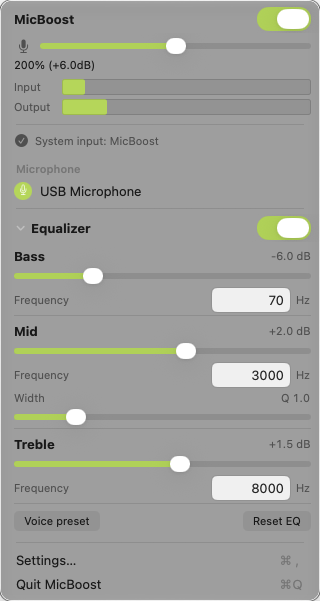
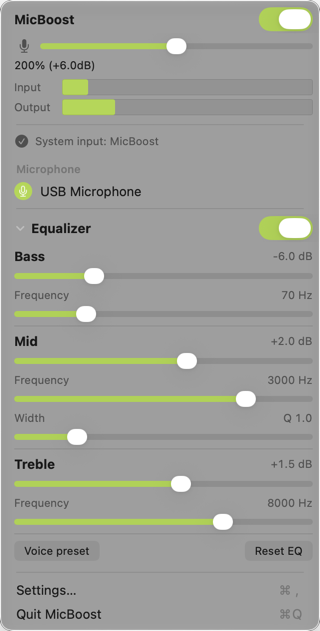
Document the EQ frequency grid and regenerate the panel screenshots

diff --git a/Sources/render-screenshots/main.swift b/Sources/render-screenshots/main.swift
@@ -112,9 +112,8 @@ enum CaptureError: Error { case noMenuWindow, emptyCapture }
         configuration.width = Int(target.frame.width * scale)
         configuration.height = Int(target.frame.height * scale)
         configuration.showsCursor = false
-        // The menu hands the keyboard to its first text field, which would be captured with a
-        // focus ring and selected text; no field is left as first responder (docs/ui.md
-        // "Renderização e verificação").
+        // A control with the keyboard focus would be captured with a focus ring; the menu is
+        // left without a first responder (docs/ui.md "Renderização e verificação").
         popup.makeFirstResponder(nil)
         window.makeFirstResponder(nil)
         let image = try await SCScreenshotManager.captureImage(

diff --git a/docs/ui.md b/docs/ui.md
@@ -4,7 +4,7 @@
 
 - Terminologia: a UI chama a entrada processada de "MicBoost". O nome "BlackHole 2ch" só aparece onde o usuário precisa reconhecê-lo: ao escolher o microfone dentro de um app que não segue a entrada do sistema, e quando o driver está ausente.
 
-- A aparência e o comportamento nativos são a diretriz para toda a interface: usar o componente nativo sempre que existir um que atenda, com métricas e cores do sistema; nada desenhado ou imitado. Personalização só onde não há equivalente nativo, com o motivo registrado aqui. No menu da barra, ações e listas são `NSMenuItem` reais e os controles dentro de views de item são AppKit; nenhum controle SwiftUI vive dentro do menu. Ações de menu ficam em texto, switches usam o estilo do sistema e campos mantêm os comandos padrão de edição.
+- A aparência e o comportamento nativos são a diretriz para toda a interface: usar o componente nativo sempre que existir um que atenda, com métricas e cores do sistema; nada desenhado ou imitado. Personalização só onde não há equivalente nativo, com o motivo registrado aqui. No menu da barra, ações e listas são `NSMenuItem` reais e os controles dentro de views de item são AppKit; nenhum controle SwiftUI vive dentro do menu. Ações de menu ficam em texto, switches usam o estilo do sistema e sliders mantêm as marcas e o passo de teclado nativos.
 - Parecer parte do sistema: materiais, tipografia (fonte do sistema, tamanhos de controle `.regular`/`.small`), espaçamento e cantos dos módulos de Som/Bluetooth da Central de Controle; ícones SF Symbols; sliders, switches e listas nativos.
 - Sem aparência de mixer de estúdio e sem animações contínuas. Os medidores são o único elemento atualizado periodicamente, e só com o painel visível.
 - Toda a UI vem do `AppModel` (`@Observable`, `@MainActor`), que reflete o `EngineStatus` e encaminha comandos ao `EngineController`. A UI nunca chama a HAL.
@@ -33,7 +33,7 @@ arredondadas à direita. O sistema define a cor conforme a barra de menus. Estad
 - entrada no tracking pelo run loop para não manter um job de concorrência Swift ocupado;
 - o menu não reserva a coluna de marcação (`showsStateColumn = false`): nenhuma linha começa num vão vazio, e as linhas de view começam na mesma coluna do título de um item nativo;
 - items de view: a view preenche a largura do menu (`autoresizingMask = .width`) e o conteúdo começa e termina nas mesmas insets do título de um `NSMenuItem` padrão. Essas insets são medidas do próprio menu na primeira abertura (o `x` do título de um item sem imagem e a coluna do atalho) e ficam guardadas em `UserDefaults.menuRowInsets`, para o painel abrir já alinhado nas execuções seguintes. Um item de view não recebe a ação do menu ao ser clicado: a linha de microfone trata o `mouseUp`, fecha o menu e chama `performActionForItem(at:)`, como um item nativo;
-- os sliders são `NSSlider`: o controle conduz o próprio laço de arrasto e continua respondendo dentro do tracking do menu, enquanto o gesto do `Slider` do SwiftUI perde o mouse-up fora da view hospedada e deixa o slider preso no estado pressionado. As atualizações são contínuas durante o arrasto, sem marcas de passo, e o knob só acompanha valores externos (campo numérico, teclado, persistência) quando não há arrasto.
+- os sliders são `NSSlider`: o controle conduz o próprio laço de arrasto e continua respondendo dentro do tracking do menu, enquanto o gesto do `Slider` do SwiftUI perde o mouse-up fora da view hospedada e deixa o slider preso no estado pressionado. As atualizações são contínuas durante o arrasto, sem marcas de passo, e o knob só acompanha valores externos (teclado, persistência) quando não há arrasto.
 
 **Fechar o painel nunca afeta o motor.** Aparência e preferências de acessibilidade
 são herdadas do sistema. Não alterar o fundo, recorte ou opacidade da janela do menu.
@@ -57,12 +57,13 @@ Itens, de cima para baixo:
 8. **Microfone:** um `NSMenuItem` com view por fonte elegível, no desenho das listas de dispositivos dos menus de Wi-Fi e Bluetooth: o símbolo SF do transporte em um selo circular de 18 pt, preenchido com a cor de destaque quando a fonte está selecionada e neutro nas demais, seguido do nome. O destaque de hover, a seleção por setas e o VoiceOver são os do menu; a linha não pinta fundo nem cria cor de hover, só acompanha o item destacado trocando o texto para a cor de seleção do sistema. Selecionar troca a fonte (reconstrução do motor com rampa). Sem microfone escolhido (primeira abertura), o app escolhe a entrada padrão do sistema se ela for uma fonte elegível, senão o microfone interno, senão a primeira fonte, e grava a escolha; só sem nenhuma fonte elegível aparece a faixa "Escolha um microfone na lista.". Uma fonte persistida que não está conectada aparece como um item desabilitado "<nome> (desconectado)" com o último nome conhecido daquele UID, guardado em `Settings.knownSourceNames` para sobreviver a um relançamento com o dispositivo ausente; se o nome nunca foi visto, a linha mostra "Microfone desconectado". O UID do dispositivo nunca aparece na interface.
 9. **Separador** nativo.
 10. **Equalizador (duas views):** o cabeçalho é um `NSButton` de disclosure nativo (triângulo) com o título "Equalizador" e um `NSSwitch` "Ativar EQ" sempre visível à direita, independente da expansão. O estado de expansão persiste (`eqExpanded`); clicar no triângulo ou no título alterna, e alternar o switch não expande nem recolhe os ajustes. Apenas as bandas e ações ficam na área recolhível:
-    - Graves: slider de ganho (dB) + campo de frequência (Hz);
-    - Médios: slider de ganho + campo de frequência + slider "Largura" com o valor de Q mostrado (Q maior = banda mais estreita);
-    - Agudos: slider de ganho + campo de frequência;
+    - Graves: slider de ganho (dB) + slider de frequência em escala logarítmica, com o valor em Hz mostrado como rótulo somente leitura;
+    - Médios: slider de ganho + slider de frequência + slider "Largura" com o valor de Q mostrado (Q maior = banda mais estreita);
+    - Agudos: slider de ganho + slider de frequência;
     - ações "Padrão de voz" e "Zerar EQ" em `NSButton` arredondado do sistema, na mesma linha. Botões em vez de itens de menu porque agem sobre a seção que está aberta, sem fechar o painel, como as ações dentro dos painéis de Som do macOS; itens de menu fechariam o menu e esconderiam o resultado.
-    - Cada banda é um bloco separado por espaçamento e por um separador `NSBox`, com título em negrito e marcação de cabeçalho para acessibilidade. O controle de largura fica dentro do bloco de Médios. O ganho de cada banda aparece numericamente junto ao título; campos de frequência têm largura compacta e alinhamento numérico à direita.
-    - Valores editáveis, validados e limitados às faixas de [dsp.md](dsp.md#equalizador). Sem gráfico de resposta.
+    - A frequência fica na mesma coluna do slider de ganho. Ela usa uma escala logarítmica entre os limites da banda, com o máximo efetivo de 0,45 · fs, e o valor é quantizado na grade de [dsp.md](dsp.md#equalizador): degraus de 10 Hz abaixo de 200 Hz, 100 Hz de 200 a 999 Hz, 500 Hz de 1000 a 9999 Hz e 1000 Hz de 10000 Hz em diante. O valor do modelo é sempre o da grade depois de um arrasto ou de uma seta; um valor persistido fora da grade aparece como está até o slider se mover.
+    - Cada banda é um bloco separado por espaçamento e por um separador `NSBox`, com título em negrito e marcação de cabeçalho para acessibilidade. O controle de largura fica dentro do bloco de Médios. O ganho e a frequência de cada banda aparecem numericamente como rótulos somente leitura, alinhados à direita.
+    - Valores limitados às faixas de [dsp.md](dsp.md#equalizador). Sem gráfico de resposta.
 11. **Separador** nativo.
 12. **"Ajustes…"** (⌘,) e **"Sair do MicBoost"** (⌘Q): `NSMenuItem` reais, em texto puro como "Settings…" nos menus da Apple, com atalho, hover e destaque do menu. O macOS 27 desenha ícones automáticos nesses itens; `preferredImageVisibility = .hidden` mantém o texto puro. Abrir os ajustes fecha o painel.
 
@@ -109,9 +110,8 @@ Cada elemento do menu e da janela de ajustes, e o que o desenha:
 | Cabeçalho do painel (título + switch) | view AppKit: `NSTextField` + `NSSwitch` |
 | Faixa de estado (texto, ação) | view AppKit: `NSBox`, `NSTextField`, `NSButton` |
 | Mute, "Usar MicBoost", disclosure, "Padrão de voz", "Zerar EQ" | `NSButton` nativo |
-| Sliders de ganho, EQ e largura | `NSSlider` (`MenuSliderControl`, só para o passo de teclado) |
-| Valor de ganho | `NSTextField` somente leitura (rótulo) |
-| Campos de frequência | `NSTextField` editável (borda arredondada do sistema) |
+| Sliders de ganho, frequência e largura | `NSSlider` (`MenuSliderControl`, só para o passo de teclado) |
+| Valor de ganho e valor de frequência | `NSTextField` somente leitura (rótulo) |
 | Selo do limitador e fundo da faixa | `NSBox` com preenchimento do sistema |
 | Medidores de entrada e saída | `NSLevelIndicator` (`continuousCapacity`, `.small`) |
 | Lista de microfones | `NSMenuItem` com view AppKit: selo circular (camada com `controlAccentColor`) e `NSTextField` |
@@ -124,12 +124,12 @@ Não há nenhum controle desenhado ou imitado: todos os elementos usam controles
 ## Teclado e acessibilidade
 
 - O menu navega como qualquer menu do sistema: setas e seleção por digitação vão de item a item, e os itens de view recebem o destaque do AppKit.
-- Sliders e campos de view de item recebem o teclado quando clicados: as setas ajustam o slider (ganho em passos de 0,5 dB, 1 dB com ⌥; EQ em 0,5 dB; largura em 0,1 de Q) e o campo de frequência anda 1/12 de oitava.
-- ⌘Q encerra o app e ⌘, abre os ajustes; campos de texto usam Recortar/Copiar/Colar/Selecionar Tudo do menu Editar nativo. Abrir os ajustes fecha o painel.
+- Sliders de view de item recebem o teclado quando clicados: as setas ajustam o slider (ganho em passos de 0,5 dB, 1 dB com ⌥; ganho do EQ em 0,5 dB; largura em 0,1 de Q) e o slider de frequência vai ao próximo valor da grade.
+- ⌘Q encerra o app e ⌘, abre os ajustes. Abrir os ajustes fecha o painel.
 - Com o painel aberto: `M` alterna o mute (item de menu oculto com atalho sem modificador, e o mesmo tratamento em `performKeyEquivalent`, para não depender do tracking), `Esc` fecha, ⌘, abre os ajustes.
-- Um campo de frequência mantém o texto digitado como está, inclusive vazio ou parcial ("-" ou "1,"): não há formatter validando a cada tecla. Selecionar tudo ao entrar em edição permite substituir o valor. Return ou Tab confirmam, perder o foco confirma, Esc cancela: no commit o texto é lido com o separador decimal do locale (vírgula ou ponto), limitado e quantizado pelo `AppModel`, e o campo mostra o valor formatado. Texto vazio ou inválido volta ao valor atual sem mudar nada.
+- O valor aplicado é sempre o que o modelo aceita: o arrasto converte a posição logarítmica em Hz, quantiza na grade e limita à faixa da banda; o rótulo mostra o resultado. As setas andam para o valor seguinte ou anterior da grade e param nos limites.
 - VoiceOver:
-  - sliders com `accessibilityLabel` ("Ganho", "Graves, ganho"…) e `accessibilityValue` em dB e percentual;
+  - sliders com `accessibilityLabel` ("Ganho", "Graves, ganho"…) e `accessibilityValue` em dB e percentual; os de frequência têm o rótulo "Graves, Hz" e o valor em Hz;
   - medidores com papel de indicador de nível e valor em dBFS;
   - estados ("Limitador ativo", divergência) anunciados como valor ou dica, não só como cor;
   - cada linha de microfone é um elemento de menu com o nome como rótulo, marcada como selecionada e com o valor "Selecionado" quando é a fonte atual.
@@ -155,7 +155,7 @@ O painel é um menu de verdade, então a imagem que importa é a que o WindowSer
 
 A janela de ajustes continua renderizada fora da tela com `NSHostingView.cacheDisplay`, porque não há menu a compor e os controles SwiftUI são AppKit por baixo. `ImageRenderer` não rasteriza controles AppKit.
 
-O menu real é capturado como o sistema o desenha, incluindo material, cantos, títulos, marcações e atalhos. Antes da captura o auxiliar solta o foco de qualquer campo do menu (`makeFirstResponder(nil)`), para nenhum campo aparecer com anel de foco e texto selecionado. O auxiliar roda dentro do laço do app, com janela key e app ativo, para que os controles nativos (switch, sliders) sejam desenhados no estado ativo; a captura acontece a partir do laço de tracking do menu, que é o único momento em que a janela existe. O executável do auxiliar fixa o locale a partir do idioma resolvido pelo catálogo (`UILanguage.locale`: en → `en_US`, pt-BR → `pt_BR`), para que os números das capturas acompanhem o texto; as views AppKit formatam números com `AppModel.formatLocale`, que o auxiliar fixa no mesmo locale.
+O menu real é capturado como o sistema o desenha, incluindo material, cantos, títulos, marcações e atalhos. Antes da captura o auxiliar solta o foco (`makeFirstResponder(nil)`), para nenhum controle aparecer com anel de foco. O auxiliar roda dentro do laço do app, com janela key e app ativo, para que os controles nativos (switch, sliders) sejam desenhados no estado ativo; a captura acontece a partir do laço de tracking do menu, que é o único momento em que a janela existe. O executável do auxiliar fixa o locale a partir do idioma resolvido pelo catálogo (`UILanguage.locale`: en → `en_US`, pt-BR → `pt_BR`), para que os números das capturas acompanhem o texto; as views AppKit formatam números com `AppModel.formatLocale`, que o auxiliar fixa no mesmo locale.
 
 O app consulta snapshots de estado a 1 Hz; os medidores têm tarefa separada de 20 Hz, cancelada ao fechar o painel. A expansão do EQ fica em `UserDefaults.eqExpanded`. A validação manual de VoiceOver, contraste e preferências de acessibilidade está pendente.
 

diff --git a/docs/testing.md b/docs/testing.md
@@ -43,7 +43,9 @@ Em 16, 44,1, 48 e 96 kHz:
 - Linha de entrada do sistema: BlackHole como entrada padrão mostra "MicBoost" com marcação só com o motor rodando; divergência mostra o nome com "Usar MicBoost" habilitado quando o clique funciona; entrada desconhecida não mostra botão.
 - Catálogo de strings: toda chave passada a `localized(...)` ou `String(localized:)` em `MicBoostUI` e `MicBoostApp` existe nos dois `.strings`, os dois catálogos têm exatamente as mesmas chaves e cada tradução preserva os placeholders da chave.
 - Permissão reavaliada ao ativar o app: negada mantém a faixa, concedida limpa e tenta iniciar de novo.
-- Formatação de ganho e escala dos medidores; o medidor ignora o mouse e o foco, e o valor de ganho é texto somente leitura.
+- Formatação de ganho e escala dos medidores; o medidor ignora o mouse e o foco, e os valores de ganho e de frequência são texto somente leitura.
+- Frequência do EQ: a grade quantiza nos limites das faixas de degrau (195, 199, 200, 950, 999, 1000, 1240, 1250, 9750, 9999, 10000, 10400 e 14000 Hz), os padrões e os limites de banda estão na grade, as setas andam para o valor seguinte ou anterior e param nos limites; o mapeamento logarítmico posição ↔ Hz volta ao mesmo valor e o meio da escala é a média geométrica.
+- Slider de frequência do menu: o arrasto (posição logarítmica → Hz → grade → faixa) grava a frequência da banda no `AppModel`, o rótulo e o valor de acessibilidade mostram "1000 Hz", o knob não se move com atualizações do modelo durante o arrasto, um valor persistido fora da grade aparece como está até o slider se mover e o máximo do slider segue 0,45 · fs da taxa atual.
 
 ## Ferramenta de diagnóstico (`micboost-diag`)
 
@@ -140,8 +142,8 @@ fifine USB a 48 kHz, Mono 1, buffer 256, EQ no padrão de voz, voz falada na dis
 - Calibração: com esse microfone, a voz chega ao nível de chamada (≈ −20 dBFS) só no máximo de +24 dB; a faixa atual é necessária e suficiente.
 - Proteção de pico: palmas a +24 dB acionaram "Limitador ativo", mas o BlackHole recebeu picos de até 1,1845 (+1,47 dBFS), com 118 amostras acima do teto de 0,891; as amostras alternam de sinal quase a cada amostra. O DSP limita a 0,891 e corta em ±1, então o excesso vem do resampler de drift do agregado, aplicado ao BlackHole depois do limitador. O teto passou a valer com o BlackHole como relógio principal ([audio-engine.md](audio-engine.md#decisão-dispositivo-agregado-privado-com-um-único-ioproc)); a confirmação medida está na entrada de 2026-11-04 abaixo.
 - Recuperação aprovada no app real: desconectar e reconectar o microfone USB; `killall coreaudiod` (o áudio volta sozinho; as faixas de dispositivo ausente durante o reinício foram eliminadas pela carência de 1,5 s); permissão de microfone negada e concedida (o macOS oferece "Encerrar e Reabrir" ao mudar a permissão com o app aberto; depois de reaberto, o áudio volta); troca manual da entrada padrão com "Usar MicBoost" (sem disputa); mudança de taxa do BlackHole no Configuração de Áudio e MIDI.
-- Menu nativo aprovado: sliders soltos fora do menu, campos de frequência, faixa traduzida, botão de apoio, alinhamento sem coluna de marca.
-- Pendentes: BlackHole ausente (remoção do driver), suspensão e retomada, restauração da entrada ao sair depois de divergir e usar "Usar MicBoost" duas vezes (correção na HAL falsa, falta o app real), medidores somente leitura e ganho sem campo no app real, VoiceOver e preferências de acessibilidade.
+- Menu nativo aprovado: sliders de ganho, largura e frequência, faixa traduzida, botão de apoio, alinhamento sem coluna de marca.
+- Pendentes: BlackHole ausente (remoção do driver), suspensão e retomada, restauração da entrada ao sair depois de divergir e usar "Usar MicBoost" duas vezes (correção na HAL falsa, falta o app real), medidores somente leitura, ganho e frequência sem campo no app real, VoiceOver e preferências de acessibilidade.
 
 ### Relógio do agregado e teto no BlackHole (2026-11-04)
 
@@ -276,19 +278,20 @@ escala de amplitude linear; valores ≤ −60 dBFS ficam em zero. `warningValue`
 O teste de proporcionalidade confere que +6,0206 dB dobra o comprimento para amplitudes de
 entrada de 0,01, 0,1 e 0,4.
 
-Sliders do painel em `NSSlider` (2026-11-03): os cinco sliders do painel — ganho, ganho de
-graves, médios e agudos e largura — são `NSSlider` puro dentro das views de item, porque o
-`Slider` do SwiftUI podia perder o mouse-up no tracking do menu e ficar preso no estado
-pressionado. O knob só acompanha valores externos quando não há arrasto, e as setas andam
-0,5 dB (1 dB com ⌥) ou 0,1 de Q.
+Sliders do painel em `NSSlider` (2026-11-03; frequências em 2026-11-04): os oito sliders do
+painel — ganho, ganho e frequência das três bandas e largura — são `NSSlider` puro dentro das
+views de item, porque o `Slider` do SwiftUI podia perder o mouse-up no tracking do menu e ficar
+preso no estado pressionado. O knob só acompanha valores externos quando não há arrasto, e as
+setas andam 0,5 dB (1 dB com ⌥), 0,1 de Q ou o próximo valor da grade de frequência.
 
-A suíte tem 109 testes (58 Core, 11 DSP, 40 UI) com execução somada de aproximadamente
-1,9 s; os testes de UI cobrem a estrutura do menu (ordem dos itens, seção "Microfone",
+A suíte tem 127 testes (64 Core, 11 DSP, 52 UI) com execução somada de aproximadamente
+2,0 s; os testes de UI cobrem a estrutura do menu (ordem dos itens, seção "Microfone",
 marcação da fonte selecionada, linha de fonte desconectada, atalhos ⌘, ⌘Q e "m"), as linhas
-de view em AppKit (cinco `NSSlider`, dois `NSSwitch`, dois `NSLevelIndicator` somente leitura
-e sem foco), a altura do painel com e sem o selo do limitador, o valor de ganho como rótulo,
-a leitura dos campos numéricos (vazio, inválido, vírgula, ponto, fora da faixa) e o passo de
-seta dos sliders. `swift build`, `swift test`,
+de view em AppKit (oito `NSSlider`, dois `NSSwitch`, dois `NSLevelIndicator` somente leitura
+e sem foco), a altura do painel com e sem o selo do limitador, o valor de ganho e o valor de
+frequência como rótulos, a grade de frequência (limites e arredondamento), o mapeamento
+logarítmico posição ↔ Hz, o arrasto e as setas do slider de frequência e o passo de seta dos
+sliders. `swift build`, `swift test`,
 lint de formatação recursivo e a montagem debug passam. O arrasto no menu real, inclusive
 soltando o mouse fora da janela do menu, a navegação por teclado e o clique nas linhas são
 verificação manual pendente.
@@ -299,8 +302,8 @@ A lógica de recuperação está implementada e coberta pela HAL falsa; os itens
 interação humana (notificações de suspensão, TCC, remoção do driver, reinício real do
 `coreaudiod`) continuam pendentes no roteiro manual acima. A etapa 5 permanece em andamento.
 
-Verificação automatizada: 109 testes (58 Core, 11 DSP, 40 UI) com execução somada de
-aproximadamente 1,9 s; a suíte Core inclui o caso
+Verificação automatizada: 127 testes (64 Core, 11 DSP, 52 UI) com execução somada de
+aproximadamente 2,0 s; a suíte Core inclui o caso
 negativo `fakeRejectsOutputWrite`, que registra uma issue conhecida intencionalmente.
 `swift build`, `swift test`, lint recursivo de formatação, montagem debug e
 `codesign --verify --strict` passam na máquina de referência.
@@ -351,8 +354,8 @@ itens de view alinham com o título dos itens nativos. `settings-*` continua vin
 Reteste do menu (2026-11-04): o medidor é exibição pura — `hitTest` devolve `nil`, `acceptsFirstResponder`
 é falso e o `mouseDown` é inerte —, e o valor de ganho virou rótulo somente leitura, sem campo nem ação de
 clique; o ganho continua pelo slider e pelas setas (0,5 dB, 1 dB com ⌥). As capturas `eq-*`, `panel-*` e
-`error-*` foram regeradas sem anel de foco e sem texto selecionado no primeiro campo de frequência, porque o
-auxiliar solta o primeiro respondedor antes da captura. `swift build`, `swift test` (109 testes) e
+`error-*` foram regeradas sem anel de foco, porque o auxiliar solta o primeiro respondedor antes da captura.
+`swift build`, `swift test` (127 testes) e
 `swift format lint --strict` passam; o arrasto do medidor e o clique no valor de ganho no menu real ficam para
 a verificação manual do mantenedor.
 
@@ -371,3 +374,15 @@ restauração e o prazo de 5 s encerra o app mesmo com o stop pendurado. Falta c
 com hardware real: divergir, usar MicBoost, divergir de novo, usar MicBoost e sair, com a
 entrada anterior restaurada e `log show --last 5m --info --predicate 'subsystem ==
 "io.github.vittau.MicBoost"'` mostrando as linhas da categoria `routing`.
+
+Frequência do EQ em slider (2026-11-04): os campos de frequência do menu foram substituídos
+por sliders `NSSlider` em escala logarítmica, com o valor em Hz como rótulo somente leitura,
+alinhados aos sliders de ganho; a grade quantiza em 10/100/500/1000 Hz conforme a faixa e os
+padrões 70, 3000 e 8000 Hz continuam na grade. `EQFrequencyScale` cobre a quantização nos
+limites (195, 199, 200, 950, 999, 1000, 1240, 1250, 9750, 9999, 10000, 10400 e 14000 Hz), as
+setas, o mapeamento logarítmico posição ↔ Hz e o máximo de 0,45 · fs; o arrasto e as setas do
+slider da banda de médios são exercitados até o `AppModel`. `swift build`, `swift test` (127
+testes, execução somada de ≈ 2,0 s) e `swift format lint --strict` passam, e as capturas
+`eq-{light,dark}` foram regeradas e inspecionadas: os três sliders de frequência aparecem na
+mesma coluna dos de ganho, com "70 Hz", "3000 Hz" e "8000 Hz" à direita. O arrasto real dentro
+do menu aberto, soltando o mouse fora da janela, fica para a verificação manual do mantenedor.

diff --git a/docs/dsp.md b/docs/dsp.md
@@ -52,6 +52,8 @@ Filtros biquad do Audio EQ Cookbook (RBJ) em Transposed Direct Form II. Shelves 
 
 Os valores padrão formam o "padrão de voz": um realce discreto de fala para microfones em geral. O corte de −6 dB nos subgraves (≈ −3 dB em 70 Hz, ≈ −1,5 dB em 100 Hz e quase nada acima de 150 Hz) tira ronco, vibração e ruído de manuseio, que o microfone capta e a voz não precisa, e preserva o corpo da voz (fundamental e primeiros harmônicos, de 85 a 250 Hz); a presença em 3 kHz melhora a inteligibilidade; os agudos suaves acrescentam clareza. O EQ vem ligado com esse padrão.
 
+Grid de frequências da UI: os sliders de frequência usam escala logarítmica dentro da faixa da banda, limitada a 0,45 · fs, e quantizam o valor antes de gravá-lo no modelo: degraus de 10 Hz abaixo de 200 Hz, 100 Hz de 200 a 999 Hz, 500 Hz de 1000 a 9999 Hz e 1000 Hz a partir de 10000 Hz. O arredondamento é para o valor mais próximo, com metade indo para cima, e cada limite é múltiplo dos degraus vizinhos, então a grade é contínua nos degraus (195 Hz → 200 Hz, 950 Hz → 1000 Hz, 9750 Hz → 10000 Hz). Os padrões 70, 3000 e 8000 Hz estão na grade. Um valor persistido fora da grade é mostrado como está até o usuário mover o slider; o DSP continua aceitando qualquer frequência limitada a `[20 Hz, 0,45 · fs]`.
+
 - Estabilidade: toda frequência é limitada a `[20 Hz, 0,45 · fs]` no momento do cálculo dos coeficientes. A UI limita o slider ao máximo efetivo para a taxa atual (exemplo: Bluetooth a 16 kHz → agudos até 7.200 Hz).
 - Resposta plana: com ganho 0 dB, a banda é tratada como identidade exata (coeficientes b0 = 1, demais 0), sem depender de arredondamento.
 - Bypass (`eq.enabled = false`): os filtros continuam rodando, com estado aquecido, e a saída faz crossfade linear de 20 ms entre o sinal com EQ e o sem EQ.
